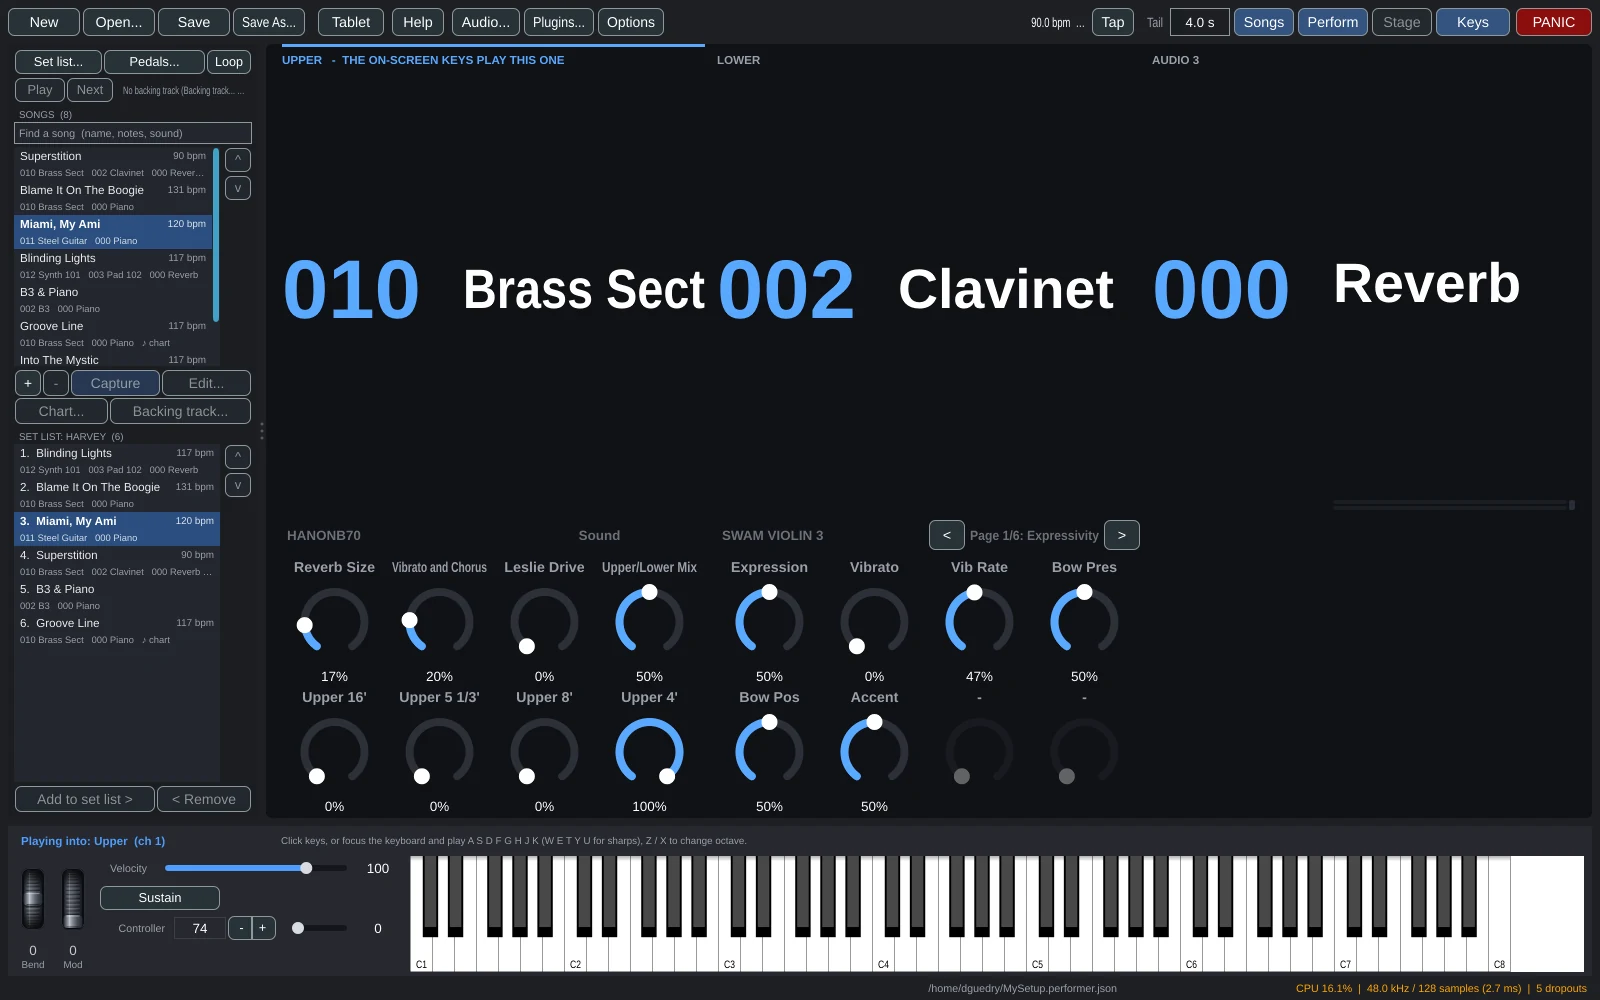
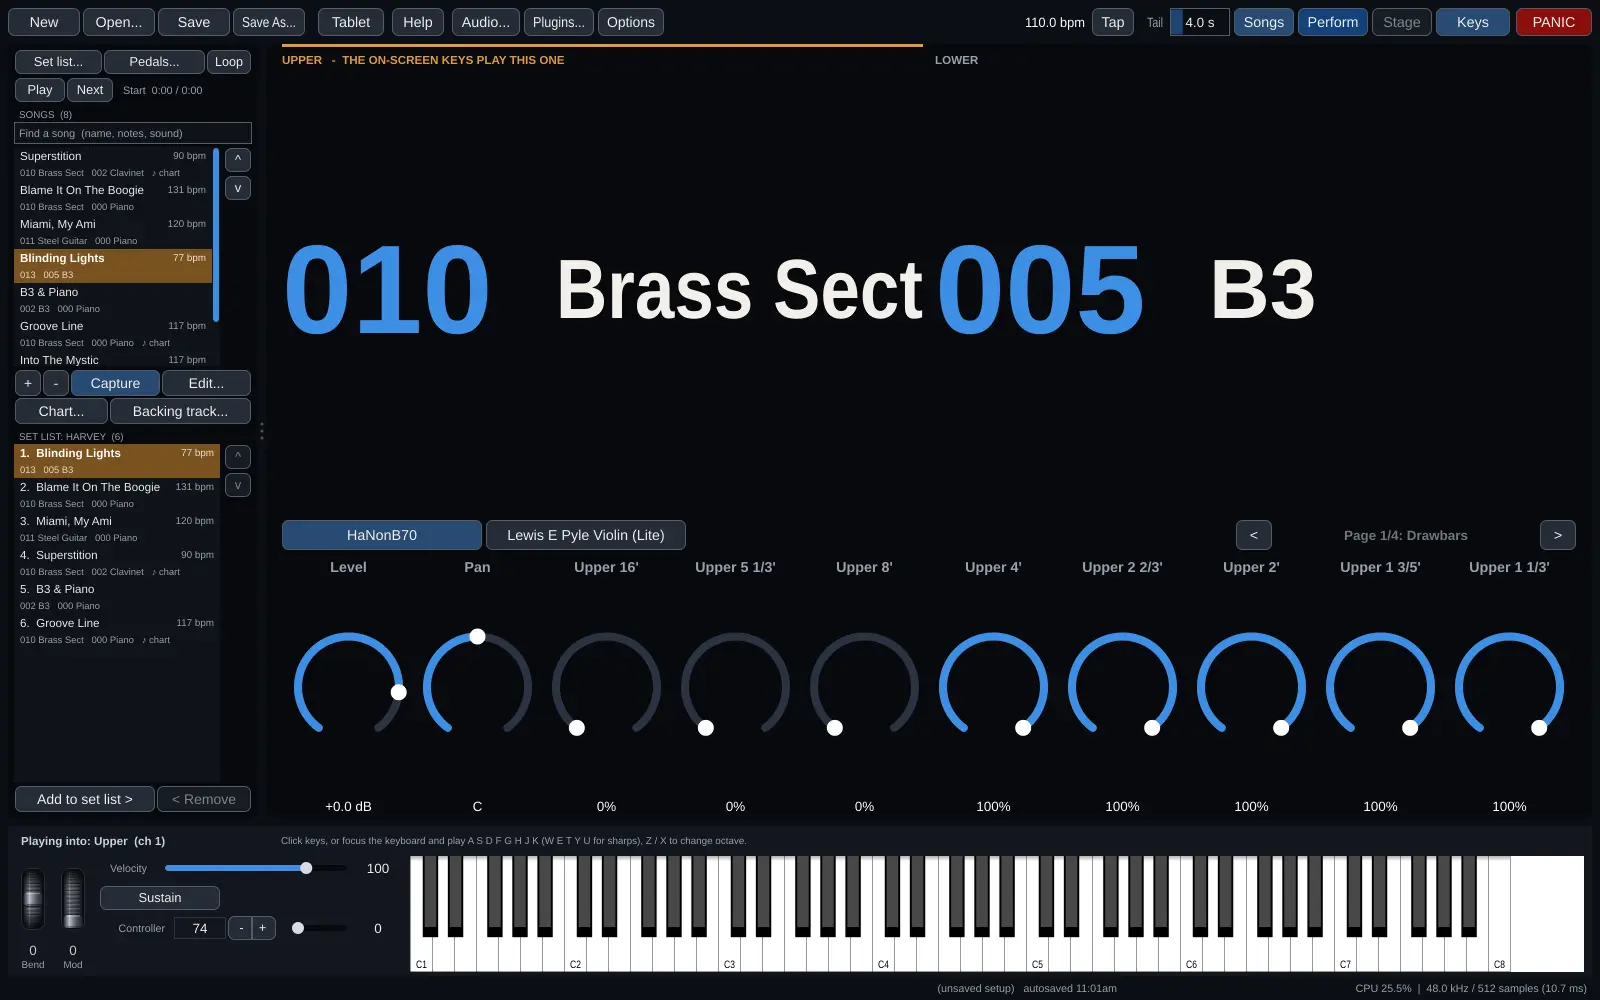
Current screenshots of the main window and the Perform view

diff --git a/index.html b/index.html
@@ -103,9 +103,9 @@
   </div>
 
   <figure class="shot wide">
-    <img src="assets/img/stagerig.webp" width="1280" height="800" loading="lazy"
-         alt="StageRig's main window: songs and a set list with tempos, two keyboards and an audio input, a program list, a SWAM Alto Sax with its key and velocity ranges, and the on-screen keyboard">
-    <figcaption>Songs and set lists, inputs, programs, and the plugins on the program in play.</figcaption>
+    <img src="assets/img/stagerig.webp" width="1440" height="900" loading="lazy"
+         alt="StageRig's main window: songs and a set list with tempos, two keyboards, a program list, a Windows organ plugin with big-band and phrase MIDI effects, layered over a sampled violin, and the on-screen keyboard">
+    <figcaption>Songs and set lists, inputs, programs, and the instruments on the program in play: here a Windows plugin with MIDI effects, over a built-in sampled violin.</figcaption>
   </figure>
 
   <ul class="features">
